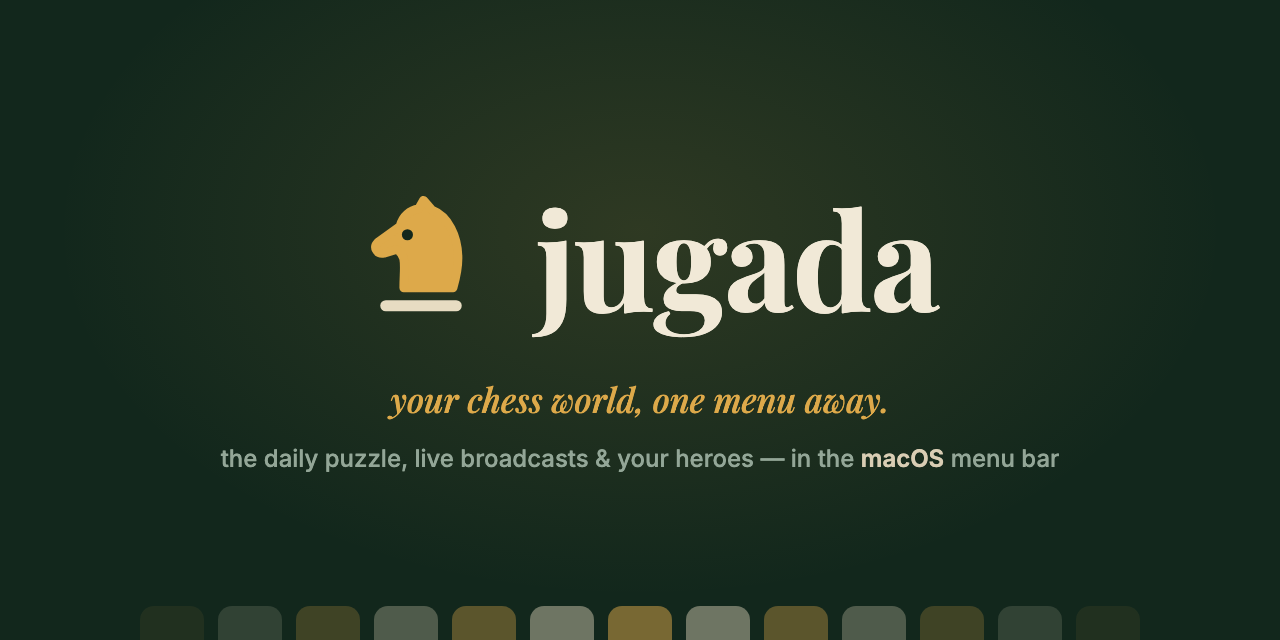
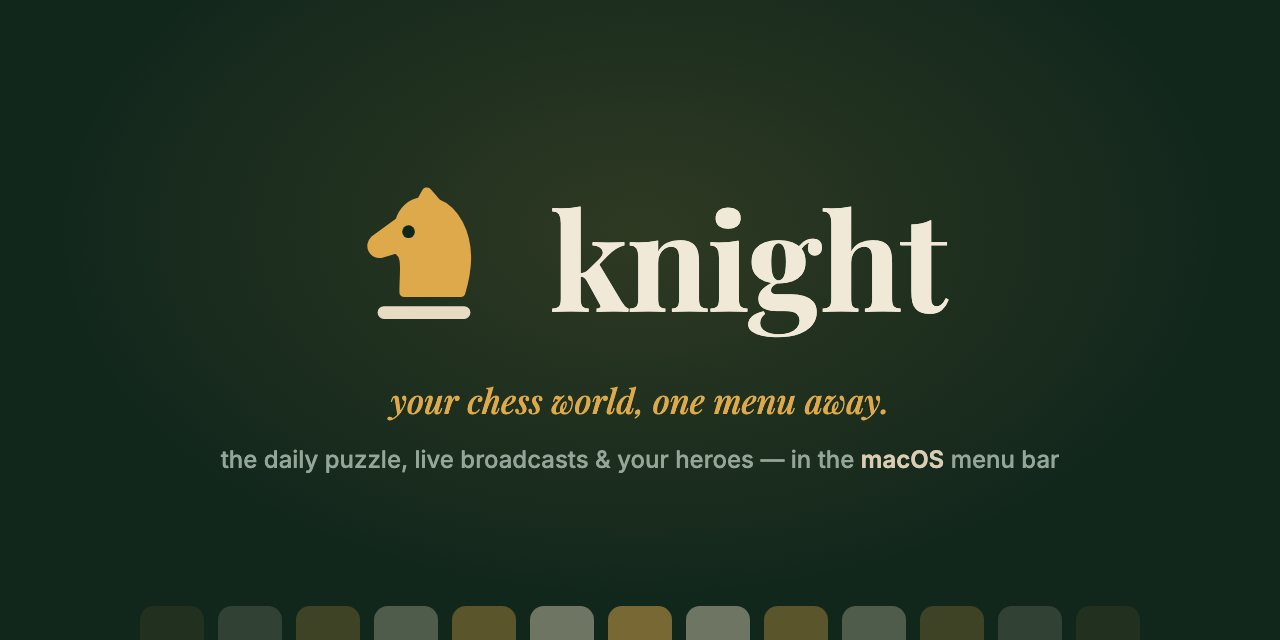
rebrand to 'knight': name & brand only (repo, bundle id, ~/.jugada kept)
The product is now 'knight' — focused on the horse/knight piece, which was already
the mark. User-facing only: app display name (Knight.app), wordmark, panel header,
Quit label, README, and assets (the gold knight enlarged to lead the brand). The
repo (SethMed7/jugada), bundle id (io.github.sethmed7.jugada), config (~/.jugada),
and binary stay as-is, so nothing breaks. v0.1.6.

diff --git a/assets/banner.html b/assets/banner.html
@@ -15,7 +15,7 @@
     background: radial-gradient(940px 480px at 22% 45%, rgba(221, 169, 74, 0.12), transparent 64%);
   }
   .mark { position: absolute; left: 104px; top: 50%; transform: translateY(-50%); }
-  .text { position: absolute; left: 322px; top: 50%; transform: translateY(-53%); }
+  .text { position: absolute; left: 356px; top: 50%; transform: translateY(-53%); }
   h1 { margin: 0; font-family: 'Playfair Display', serif; font-size: 118px; font-weight: 700; letter-spacing: -0.012em; color: #F1E9D7; }
   p {
     margin: 14px 0 0 4px;
@@ -34,7 +34,7 @@
 <div class="banner">
   <div class="glow"></div>
   <div class="mark">
-    <svg width="182" height="182" viewBox="0 0 256 256">
+    <svg width="216" height="216" viewBox="0 0 256 256">
       <path d="M100 178 C 100 144 106 124 88 116 L 68 122 C 56 124 50 112 58 104 L 94 78 C 98 62 110 52 124 50 L 132 36 L 146 52 C 172 62 188 94 188 130 C 188 150 184 164 180 178 Z"
             fill="#DDA94A" stroke="#DDA94A" stroke-width="14" stroke-linejoin="round" stroke-linecap="round"/>
       <circle cx="106" cy="92" r="9" fill="#12271C"/>
@@ -42,7 +42,7 @@
     </svg>
   </div>
   <div class="text">
-    <h1>jugada</h1>
+    <h1>knight</h1>
     <p>your chess world, one menu away.</p>
   </div>
   <div class="board" id="board"></div>

diff --git a/Sources/Jugada/AppDelegate.swift b/Sources/Jugada/AppDelegate.swift
@@ -12,8 +12,8 @@ final class AppDelegate: NSObject, NSApplicationDelegate, UNUserNotificationCent
     func applicationDidFinishLaunching(_ notification: Notification) {
         statusItem = NSStatusBar.system.statusItem(withLength: NSStatusItem.squareLength)
         if let button = statusItem.button {
-            button.image = NSImage(systemSymbolName: "crown", accessibilityDescription: "Jugada")
-                ?? NSImage(systemSymbolName: "circle.grid.3x3", accessibilityDescription: "Jugada")
+            button.image = NSImage(systemSymbolName: "crown", accessibilityDescription: "knight")
+                ?? NSImage(systemSymbolName: "circle.grid.3x3", accessibilityDescription: "knight")
             button.action = #selector(togglePopover)
             button.target = self
         }

diff --git a/Sources/Jugada/Panel.swift b/Sources/Jugada/Panel.swift
@@ -28,7 +28,7 @@ struct PanelView: View {
         VStack(alignment: .leading, spacing: 0) {
             HStack(spacing: 9) {
                 Text("\u{265E}").font(.system(size: 17)).foregroundColor(.jGold)
-                Text("jugada").font(.system(size: 18, weight: .semibold, design: .serif)).foregroundColor(.jCream)
+                Text("knight").font(.system(size: 18, weight: .semibold, design: .serif)).foregroundColor(.jCream)
                 Spacer()
             }
             .padding(.horizontal, 14).padding(.top, 12).padding(.bottom, 8)
@@ -49,7 +49,7 @@ struct PanelView: View {
                 settingsRow
                 divider
                 Row(title: "Refresh") { model.onRefresh() }
-                Row(title: "Quit Jugada") { model.onQuit() }
+                Row(title: "Quit knight") { model.onQuit() }
             }
             .padding(8)
         }

diff --git a/assets/social.html b/assets/social.html
@@ -35,13 +35,13 @@
 <div class="card">
   <div class="glow"></div>
   <div class="lockup">
-    <svg width="158" height="158" viewBox="0 0 256 256">
+    <svg width="180" height="180" viewBox="0 0 256 256">
       <path d="M100 178 C 100 144 106 124 88 116 L 68 122 C 56 124 50 112 58 104 L 94 78 C 98 62 110 52 124 50 L 132 36 L 146 52 C 172 62 188 94 188 130 C 188 150 184 164 180 178 Z"
             fill="#DDA94A" stroke="#DDA94A" stroke-width="14" stroke-linejoin="round" stroke-linecap="round"/>
       <circle cx="106" cy="92" r="9" fill="#12271C"/>
       <rect x="62" y="198" width="132" height="18" rx="9" fill="#E7DCC2"/>
     </svg>
-    <h1>jugada</h1>
+    <h1>knight</h1>
   </div>
   <p class="tagline">your chess world, one menu away.</p>
   <p class="sub">the daily puzzle, live broadcasts &amp; your heroes — in the <b>macOS</b> menu bar</p>

diff --git a/Sources/Jugada/main.swift b/Sources/Jugada/main.swift
@@ -45,7 +45,7 @@ func checkText(_ snapshot: Snapshot) -> String {
 }
 
 if CommandLine.arguments.contains("--version") {
-    print("0.1.5")
+    print("0.1.6")
     exit(0)
 }
 

diff --git a/assets/menu.html b/assets/menu.html
@@ -84,7 +84,7 @@
     <div class="row">Watch Lichess TV</div>
     <div class="row">Refresh</div>
     <hr />
-    <div class="row">Quit Jugada</div>
+    <div class="row">Quit knight</div>
   </div>
 
   <svg width="380" height="380" viewBox="0 0 256 256"

diff --git a/README.md b/README.md
@@ -1,6 +1,6 @@
 <div align="center">
 
-![jugada — your chess world, one menu away.](assets/banner.png)
+![knight — your chess world, one menu away.](assets/banner.png)
 
 **A tiny chess companion for the macOS menu bar** — the daily puzzle, live broadcasts,
 and your chess heroes, one click away, all day. No accounts, no keys, no tracking.
@@ -12,18 +12,18 @@ and your chess heroes, one click away, all day. No accounts, no keys, no trackin
 
 </div>
 
-**jugada** — Spanish for *"the move."* It puts a crown ♔ in your menu bar; click it and a
-board-green panel unfolds: today's daily puzzle (from **lichess** or **chess.com**, your
-choice), the official broadcasts playing right now — with a notification when a new one goes
-live — when your favorite players were last online, and a one-click ticket to Lichess TV.
-Everything opens in your browser. It refreshes itself every five minutes. No login, nothing
-to configure to start. Part of a small family — sibling of
+**knight** — the piece that doesn't move in straight lines. It puts a crown ♔ in your menu
+bar; click it and a board-green panel unfolds: today's daily puzzle (from **lichess** or
+**chess.com**, your choice), the official broadcasts playing right now — with a notification
+when a new one goes live — your favorite players' status, and a one-click ticket to Lichess
+TV. Everything opens in your browser. It refreshes itself every five minutes. No login,
+nothing to configure to start. Part of a small family — sibling of
 [narrado](https://github.com/SethMed7/narrado) and [leelo](https://github.com/SethMed7/leelo)
 — same craft, a different board.
 
 ## How it works
 
-![the jugada menu — daily puzzle, live events, heroes, lichess tv](assets/menu.png)
+![the knight menu — daily puzzle, live events, heroes, lichess tv](assets/menu.png)
 
 ## Features
 
@@ -46,11 +46,14 @@ to configure to start. Part of a small family — sibling of
 
 ## Install
 
-1. Download `Jugada-x.y.z.zip` from [Releases](https://github.com/SethMed7/jugada/releases/latest),
-   unzip, drag **Jugada.app** to Applications, and open it. The app is ad-hoc signed; if macOS
-   complains, run `xattr -dr com.apple.quarantine /Applications/Jugada.app` (or right-click → Open).
-2. That's it — **no permissions to grant.** jugada talks only to `lichess.org` and
+1. Download `Knight-x.y.z.zip` from [Releases](https://github.com/SethMed7/jugada/releases/latest),
+   unzip, drag **Knight.app** to Applications, and open it. The app is ad-hoc signed; if macOS
+   complains, run `xattr -dr com.apple.quarantine /Applications/Knight.app` (or right-click → Open).
+2. That's it — **no permissions to grant.** knight talks only to `lichess.org` and
    `api.chess.com`.
+
+> The project still lives at **github.com/SethMed7/jugada** (the repo, bundle id, and
+> `~/.jugada` config keep their original name); the app you run is **knight**.
 
 On first run, the first time a new broadcast goes live you'll get a **notification**; macOS
 asks for permission once.
@@ -73,8 +76,8 @@ on the active platform, so list each player's lichess / chess.com handle accordi
 
 ```sh
 swift build              # debug build
-sh scripts/bundle.sh     # release build -> build/Jugada.app (no Xcode project needed)
-./build/Jugada.app/Contents/MacOS/Jugada --check   # headless snapshot of all sections
+sh scripts/bundle.sh     # release build -> build/Knight.app (no Xcode project needed)
+./build/Knight.app/Contents/MacOS/Jugada --check   # headless snapshot of all sections
 ```
 
 Brand assets are authored as HTML/SVG in `assets/` and rendered with
@@ -85,7 +88,7 @@ Brand assets are authored as HTML/SVG in `assets/` and rendered with
 MIT
 
 <div align="center">
-<sub>♞ <b>jugada</b> · brass on board-green · your chess world, one menu away · part of the
+<sub>♞ <b>knight</b> · brass on board-green · your chess world, one menu away · part of the
 family: <a href="https://github.com/SethMed7/narrado">narrado</a> ·
 <a href="https://github.com/SethMed7/leelo">leelo</a> ·
 <a href="https://github.com/SethMed7/dictado">dictado</a></sub>